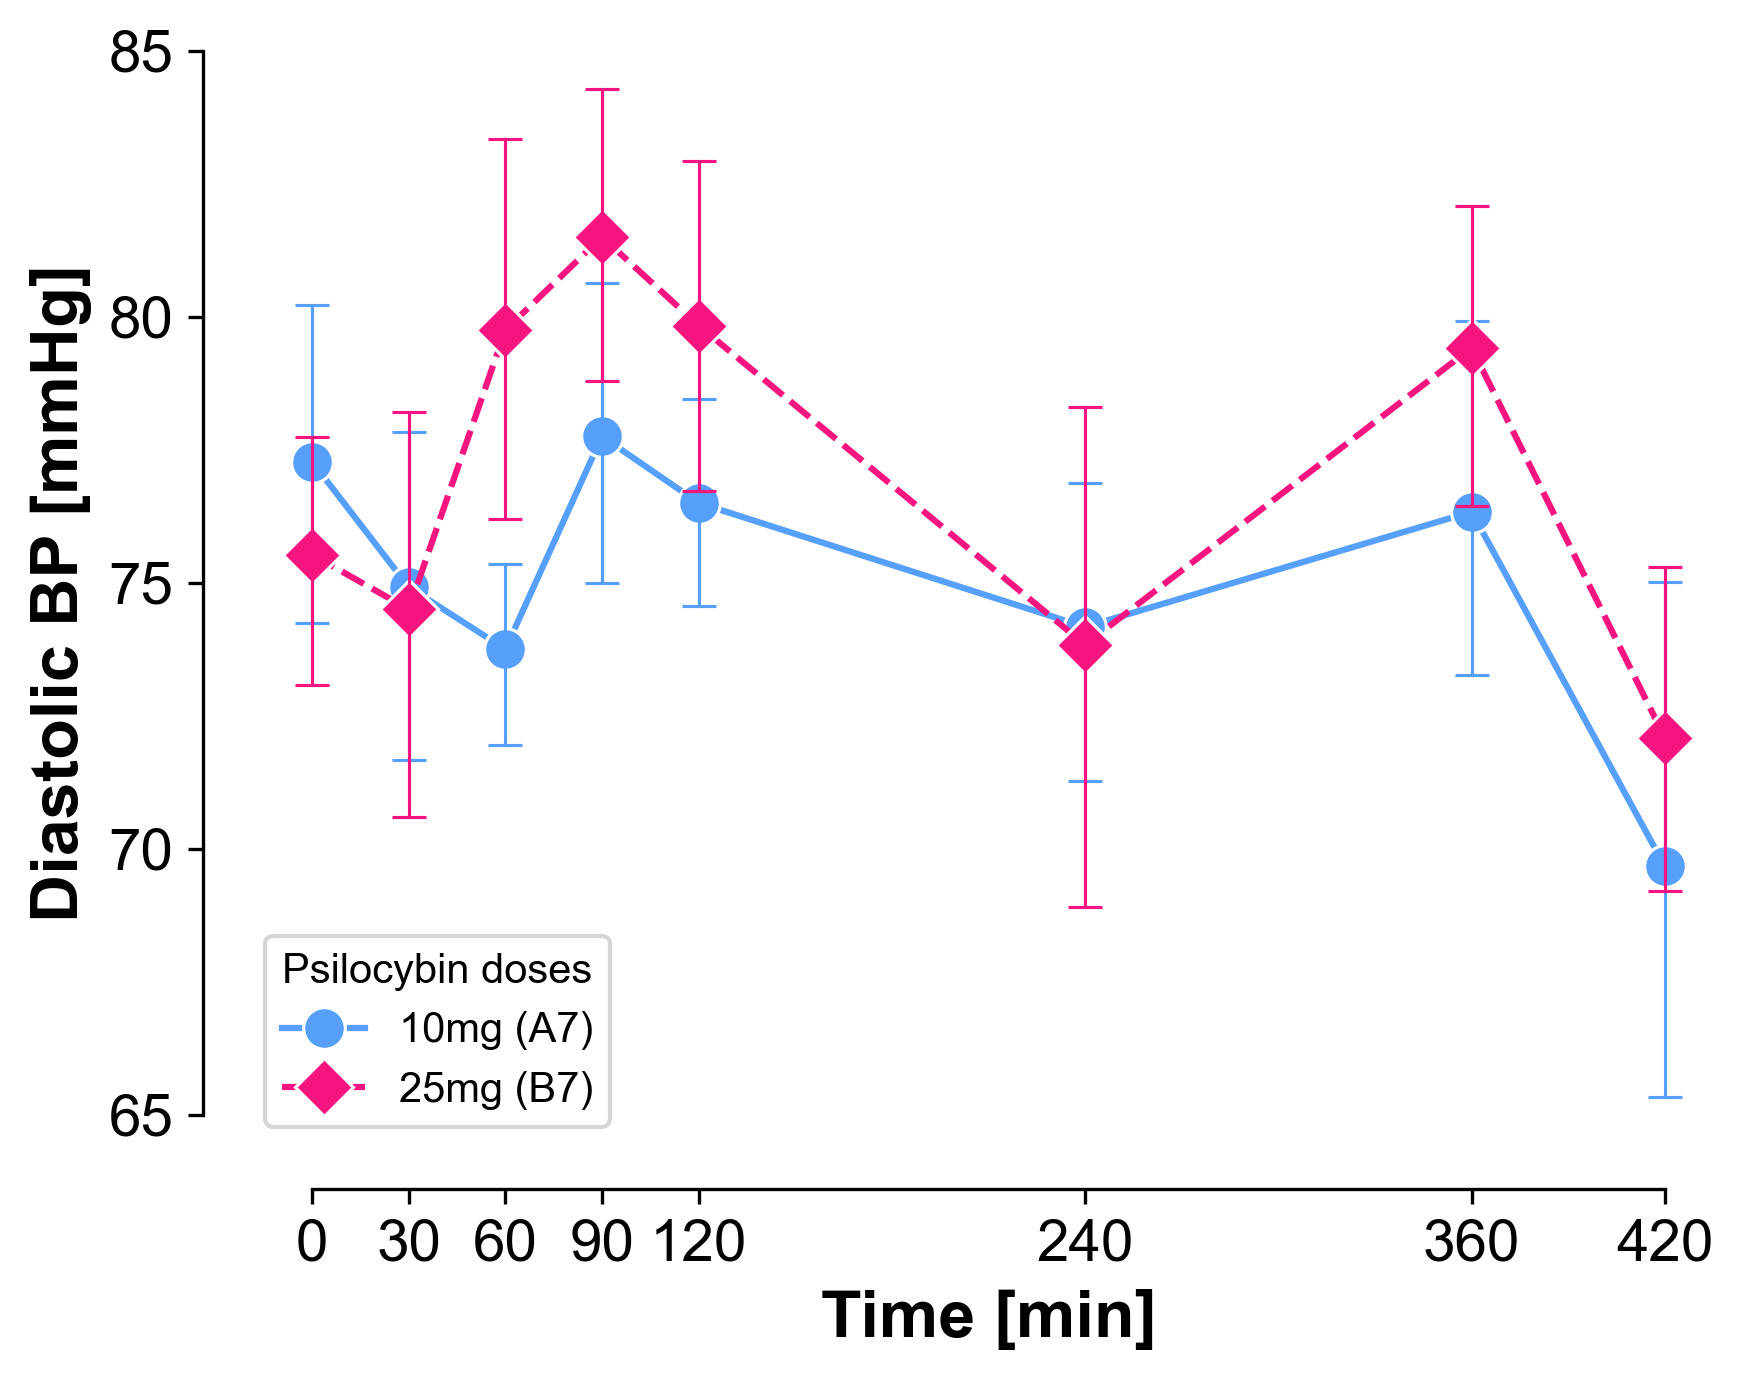
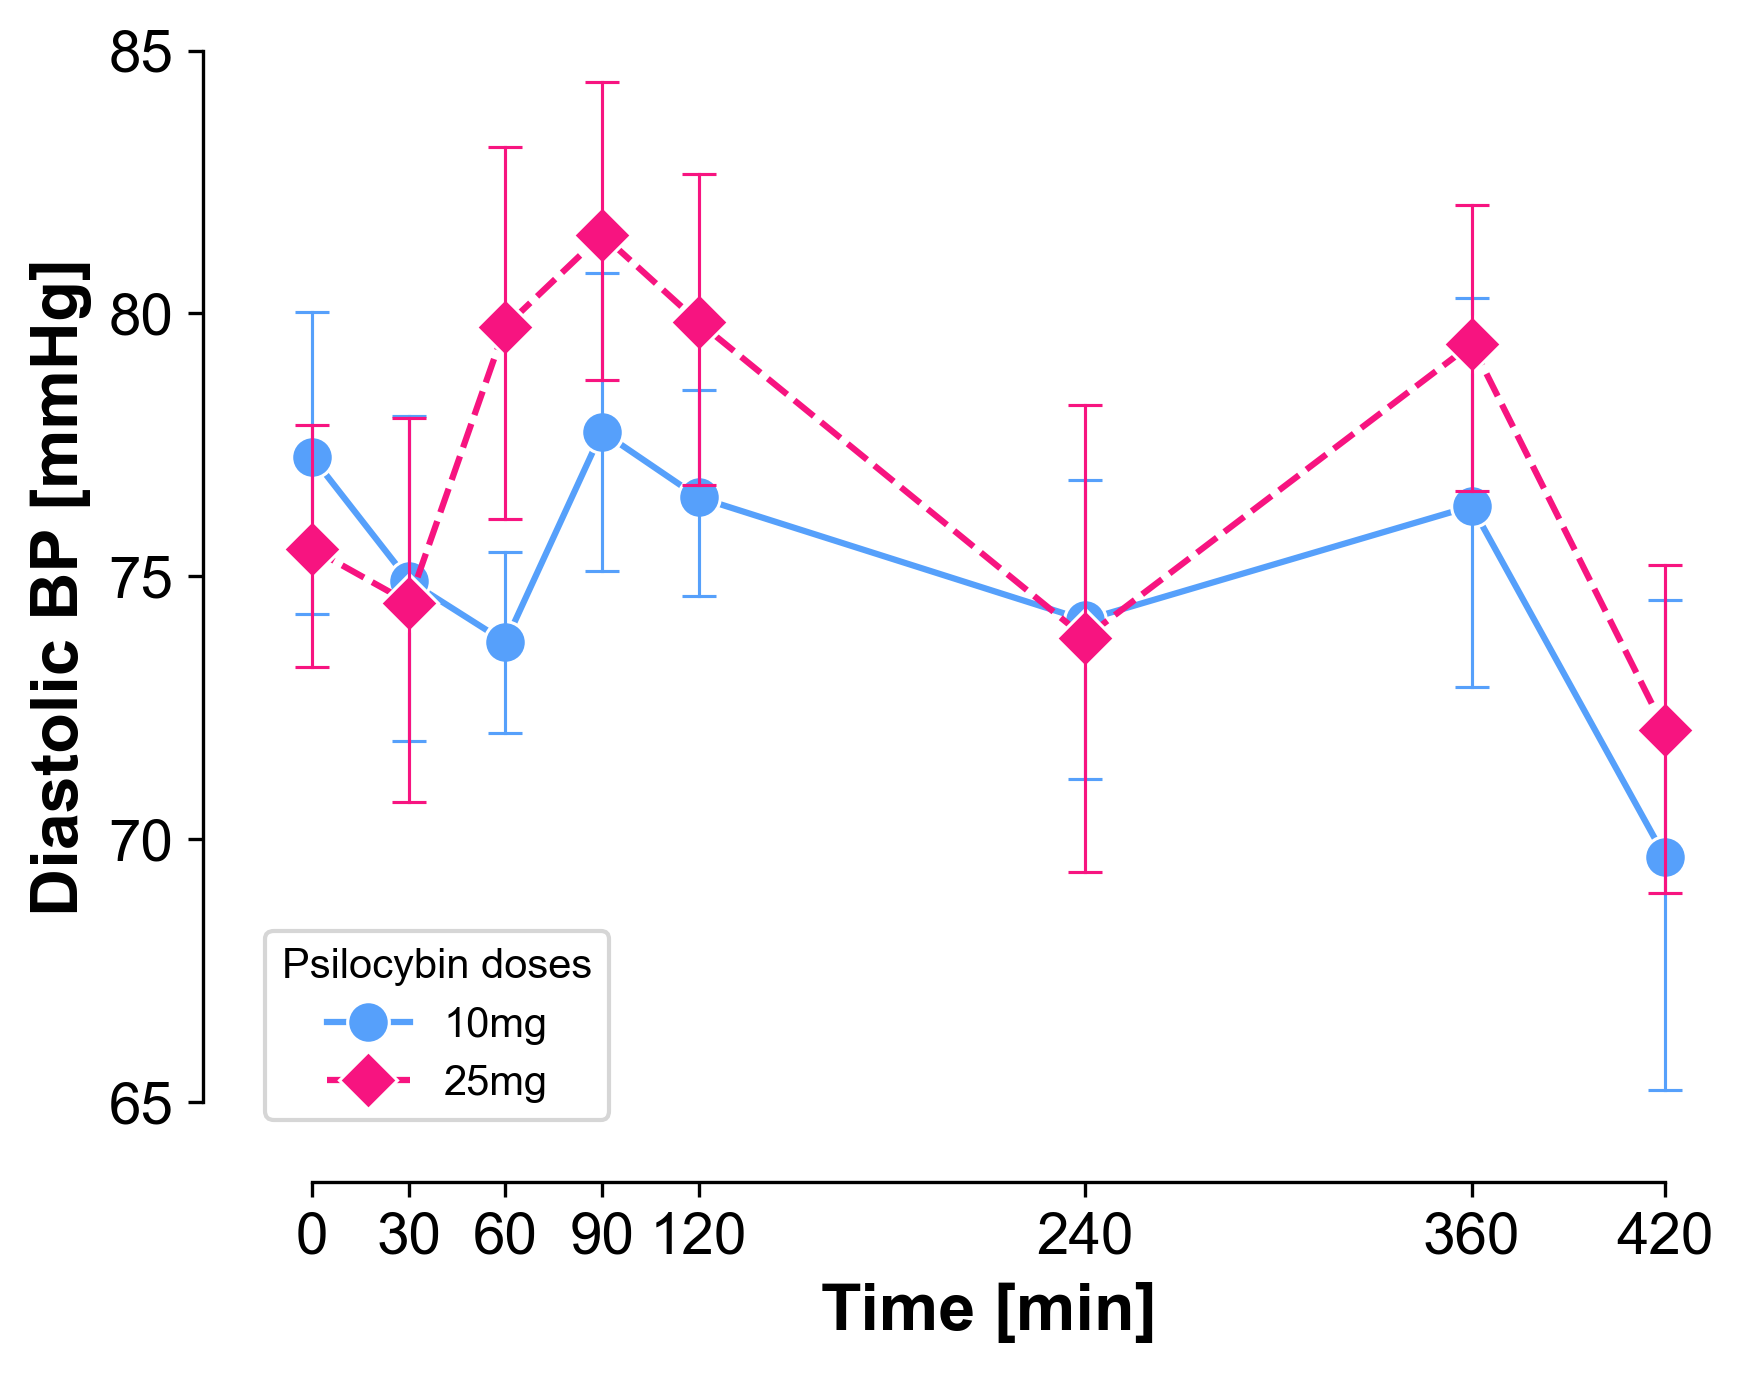
extended vitals

diff --git a/src/plots.py b/src/plots.py
@@ -98,16 +98,16 @@ class Controllers():
             if measure in has_B90:
                 plt.xticks(ax.get_xticks(),
                     ['Baseline',
-                    '7 days post 10mg (A7)',
-                    '7 days post 25mg (B7)',
-                    '30 days post 25mg (B30)',
-                    '90 days post 25mg (B90)'])
+                    'A7',
+                    'B7',
+                    'B30',
+                    'B90'])
             else:
                 plt.xticks(ax.get_xticks(),
                     ['Baseline',
-                    '7 days post 10mg (A7)',
-                    '7 days post 25mg (B7)',
-                    '30 days post 25mg (B30)'])
+                    'A7',
+                    'B7',
+                    'B30'])
 
             plt.setp(ax.get_xticklabels(), rotation=35, ha="right", rotation_mode="anchor")
 
@@ -190,7 +190,7 @@ class Controllers():
                     'capthick': 0.75},
             )
 
-            plt.legend(title='Psilocybin doses', labels=['10mg (A7)', '25mg (B7)'])
+            plt.legend(title='Psilocybin doses', labels=['10mg', '25mg'])
 
             ax.set_xlabel('Time [min]', fontdict=config.axislabel_fontdict)
             ax.set_xticks([0, 30, 60, 90, 120, 240, 360, 420])
@@ -229,7 +229,7 @@ class Controllers():
                 filename = f'vitals_{measure}')
 
     @staticmethod
-    def make_5dasc(df, out_dir=folders.exports, horizontal=True):
+    def make_5dasc(df, out_dir=folders.exports, horizontal=False):
 
         assert isinstance(horizontal, bool)
 
@@ -257,7 +257,7 @@ class Controllers():
 
         if horizontal:
             fig.set_size_inches([4*4.8, 2*4.8])
-            sns.boxplot(
+            sns.barplot(
                 data=df,
                 x='measure',
                 y='score',
@@ -276,26 +276,38 @@ class Controllers():
 
         else:
             fig.set_size_inches([2*4.8, 4*4.8])
-            sns.boxplot(
+            sns.barplot(
                 data=df,
                 y='measure',
                 x='score',
                 hue='tp',
+                errorbar="se",
+                capsize=0.2,
+                errwidth=0.5,
+                width=0.8,
                 palette = {
                     'A0': '#56A0FB',
                     'B0': '#F71480'},)
 
             ax.set_xticks([0, 25, 50, 75, 100])
-            sns.despine(top=True, right=True, left=True, bottom=False)
             ax.tick_params(axis='both', which='major', labelsize=config.ticklabel_fontsize)
             ax.set_xlabel('Score', fontdict=config.axislabel_fontdict)
-            ax.tick_params(axis='y', length=0)
             ax.set_yticklabels(ax.get_yticklabels(), ha='center', va='center')
             ax.set_ylabel('')
 
-        plt.legend(title='Psilocybin doses', labels=['10mg (A7)', '25mg (B7)'])
+        # Collect handles and labels for the legend
+        legend_handles = []
+        legend_labels = []
+        handles, labels = ax.get_legend_handles_labels()
+        legend_handles.extend(handles)
+        legend_labels.extend(labels)
+        custom_legend_labels = ["10 mg", "25 mg"]
+        plt.legend(legend_handles, custom_legend_labels)
+
+        ax.tick_params(axis='both', which='major', labelsize=config.ticklabel_fontsize)
         ax.yaxis.grid(False)
         ax.xaxis.grid(False)
+        sns.despine(top=True, right=True, left=False, bottom=False, offset=10, trim=True)
 
         if horizontal:
             filename_tag='horizontal'
@@ -305,7 +317,7 @@ class Controllers():
         Helpers.save_fig(
             fig = fig,
             out_dir = out_dir,
-            filename = f'5dasc_{filename_tag}')
+            filename = f'5dasc')
 
     @staticmethod
     def make_bslpreds_corrmat(df, tp='B7', out_dir=folders.corrmats, filename='corrmat_bslpreds_delta'):
@@ -321,7 +333,7 @@ class Controllers():
             'fivedasc_av_total', 'fivedasc_per_total',
         ])]
         df = df.loc[df.measure.isin([
-            'UPDRS_1', 'UPDRS_2', 'UPDRS_3','UPDRS_4',
+            'UPDRS_1', 'UPDRS_2', 'UPDRS_3','UPDRS_4', 'PRL',
             'Z_MTS', 'Z_OTS', 'Z_PAL', 'Z_RTI', 'Z_SWM',
             'HAMA', 'MADRS', 'ESAPS',
         ])]
@@ -332,7 +344,7 @@ class Controllers():
         tmp = tmp.str.replace('_total', '')
         df['pred'] = tmp
 
-        for corr_type in config.config.corr_types.keys():
+        for corr_type in config.corr_types.keys():
 
             fig, ax = plt.subplots(dpi=300)
             ax.set_title(f'{corr_type.upper()} (@{tp})', fontsize=14, fontweight='bold')
@@ -354,6 +366,7 @@ class Controllers():
                 values=config.corr_types[corr_type]['p'])
             sig_df = p_df.applymap(Helpers.sig_marking)
 
+            import pdb; pdb.set_trace()
             sns.heatmap(
                 data = est_df,
                 ax = ax,
@@ -507,51 +520,6 @@ class Helpers:
             ax.set_ylim([y_low, y_high+y_boost])
 
         return ax
-
-    @staticmethod
-    def get_sig_mask(df, p_mask):
-
-        sig_mask = pd.DataFrame(np.squeeze(p_mask), columns=df.columns.tolist())
-        sig_mask.index = df.columns.tolist()
-        sig_mask = np.where(
-            sig_mask.to_numpy()<=0.001, '***',
-            np.where(sig_mask.to_numpy()<=0.01, '**',
-            np.where(sig_mask.to_numpy()<=0.05, '*', '')))
-
-        sig_mask = sig_mask.astype('str')
-        return sig_mask
-
-    @staticmethod
-    def get_p_mask(df, method):
-
-        assert method in ['pearson', 'spearman']
-
-        p_matrix = np.zeros(shape=(df.shape[1], df.shape[1]))
-        for col in df.columns:
-            for col2 in df.drop(col, axis=1).columns:
-
-                if method == 'pearson':
-                    _, p = stats.pearsonr(df[col], df[col2])
-                elif method == 'spearman':
-                    _, p = stats.spearmanr(df[col], df[col2])
-
-                p_matrix[df.columns.to_list().index(
-                    col), df.columns.to_list().index(col2)] = p
-
-        return p_matrix
-
-    @staticmethod
-    def clean_corrdf(df):
-
-        df = df.drop(
-            ['IFN_gamma', 'IL10', 'IL6', 'IL8', 'TNF_alpha'],
-            axis=0,)
-
-        df = df.drop(
-            ['CSSRS', 'ESAPS', 'HAMA', 'MADRS', 'UPDRS_1', 'UPDRS_2', 'UPDRS_3', 'UPDRS_4', 'UPDRS_SUM'],
-            axis=1,)
-
-        return df
 
     @staticmethod
     def sig_marking(value):

diff --git a/src/core.py b/src/core.py
@@ -654,7 +654,7 @@ class Core():
 class Analysis():
 
     @staticmethod
-    def fivedasc_pairedt(df, folder=folders.exports, filename='pdp1_fivedasc_pairedt.csv'):
+    def fivedasc_pairedt(df, folder=folders.vitals, filename='pdp1_fivedasc_pairedt.csv'):
 
         rows=[]
         for measure in df.measure.unique():
@@ -673,7 +673,7 @@ class Analysis():
         df.to_csv(os.path.join(folder, filename), index=False)
 
     @staticmethod
-    def vitals_dmax(df, folder=folders.exports, filename='pdp1_vitals_dmax.csv'):
+    def vitals_dmax(df, folder=folders.vitals, filename='pdp1_vitals_dmax.csv'):
 
         rows=[]
         for measure in df.measure.unique():
@@ -695,13 +695,15 @@ class Analysis():
             # Do paired t-test of delta maxes
             t, tp = ttest_rel(a0_deltamaxs, b0_deltamaxs, nan_policy='omit')
             w, wp = wilcoxon(a0_deltamaxs, b0_deltamaxs, nan_policy='omit')
-            rows.append([measure, round(t,3), round(tp,4), round(w,3), round(wp,4)])
+            rows.append([
+                measure, round(t,3), round(tp,4), round(w,3), round(wp,4),
+                round(mean(a0_deltamaxs),2), round(mean(b0_deltamaxs),2)])
 
-        df = pd.DataFrame(columns=['measure', 't', 't.p', 'w', 'w.p'], data=rows)
+        df = pd.DataFrame(columns=['measure', 't', 't.p', 'w', 'w.p', 'A0_deltamax_mean', 'B0_deltamax_mean'], data=rows)
         df.to_csv(os.path.join(folder, filename), index=False)
 
     @staticmethod
-    def vitals_avg(df, folder=folders.exports, filename='pdp1_vitals_avg.csv'):
+    def vitals_avg(df, folder=folders.vitals, filename='pdp1_vitals_avg.csv'):
 
         rows=[]
         for measure in df.measure.unique():
@@ -717,9 +719,11 @@ class Analysis():
 
             t, tp = ttest_rel(a0_avgs, b0_avgs, nan_policy='omit')
             w, wp = wilcoxon(a0_avgs, b0_avgs, nan_policy='omit')
-            rows.append([measure, round(t,3), round(tp,4), round(w,3), round(wp,4)])
+            rows.append([
+                measure, round(t,3), round(tp,4), round(w,3), round(wp,4),
+                round(mean(a0_avgs),2), round(mean(b0_avgs),2)])
 
-        df = pd.DataFrame(columns=['measure', 't', 't.p', 'w', 'w.p'], data=rows)
+        df = pd.DataFrame(columns=['measure', 't', 't.p', 'w', 'w.p', 'A0_avg', 'B0_avg'], data=rows)
         df.to_csv(os.path.join(folder, filename), index=False)
 
     @staticmethod

diff --git a/run.py b/run.py
@@ -30,7 +30,7 @@ if False: # create master DF with all potential bsl covariates
         df_demo = pd.read_csv(
             os.path.join(folders.data, 'pdp1_demography.csv')),)
 
-if True: # create master DF with delta-cytokine covariates
+if False: # create master DF with delta-cytokine covariates
     df = core.DataWrangl.get_cytokine_master_df(
         df = pd.read_csv(
             os.path.join(folders.data, 'pdp1_MASTER.csv')),
@@ -74,7 +74,7 @@ if False: # make 5DASC compariosn plots
         out_dir=folders.fivedasc,
         horizontal=False)
 
-if True: # make cytokine correlation matrix
+if False: # make cytokine correlation matrix
 
     plots.Controllers.make_cytokine_corrmat(
         df=pd.read_csv(os.path.join(folders.exports, 'pdp1_cytokine_delta_corrmat.csv')),)
@@ -92,9 +92,8 @@ if False: # make bsl predictors correlation matrix
         tp = 'B30')
 
 
-
 """ analysis """
-if False: # make vitals analysis
+if True: # make vitals analysis
 
     core.Analysis.vitals_dmax(
         df=pd.read_csv(

diff --git a/src/folders.py b/src/folders.py
@@ -11,6 +11,6 @@ exports = os.path.abspath(os.path.join(codebase, 'exports'))
 ind_timeevols = os.path.abspath(os.path.join(exports, 'timeevol ind figs'))
 agg_timeevols = os.path.abspath(os.path.join(exports, 'timeevol agg figs'))
 histograms = os.path.abspath(os.path.join(exports, 'histogram figs'))
-vitals = os.path.abspath(os.path.join(exports, 'vitals figs'))
+vitals = os.path.abspath(os.path.join(exports, 'vitals'))
 fivedasc = os.path.abspath(os.path.join(exports, '5dasc'))
 corrmats = os.path.abspath(os.path.join(exports, 'corrmats'))
